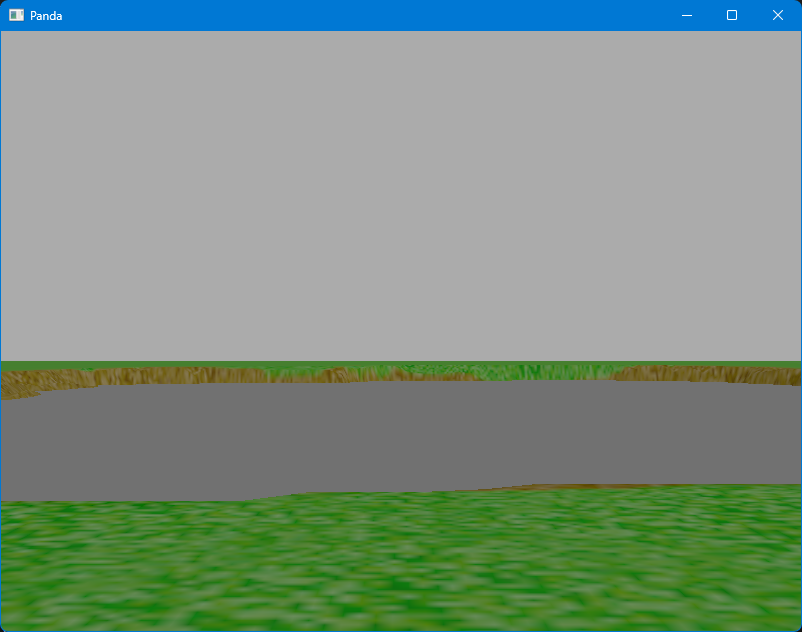
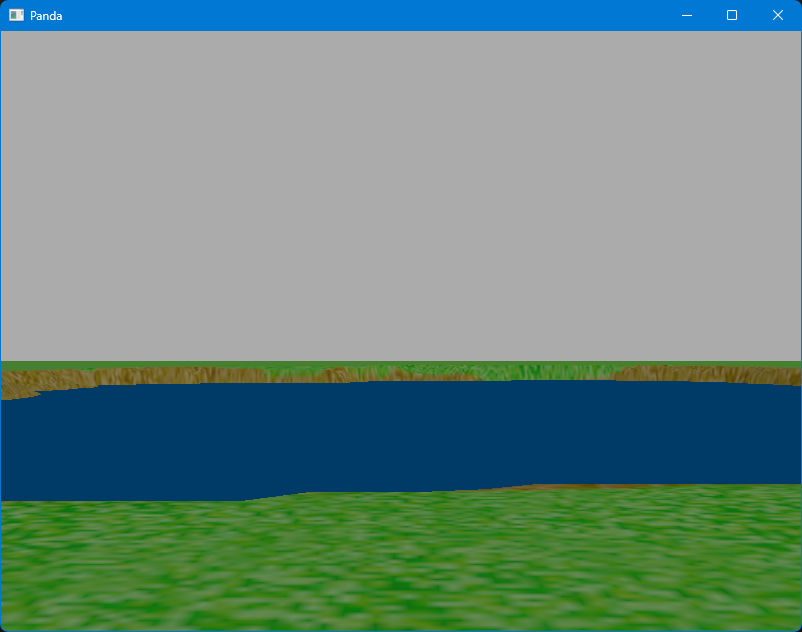
Fix water fragment shader in PBR terrain lesson 4.

Changed region(s): [[0.0, 0.6013, 1.0, 0.8117]]

diff --git a/pbr/terrain/04-water_shader/README.md b/pbr/terrain/04-water_shader/README.md
@@ -206,7 +206,7 @@ vec4 applyFog(vec4 color) {
 
 void main() {
     // Calculate base color, metallic, emission, and roughness
-    vec4 baseColor = vec4(1, 1, 1, 1);
+    vec4 baseColor = p3d_Material.baseColor;
     float metallic = p3d_Material.metallic;
     float emission = 0.0;
     float roughness = p3d_Material.roughness;
